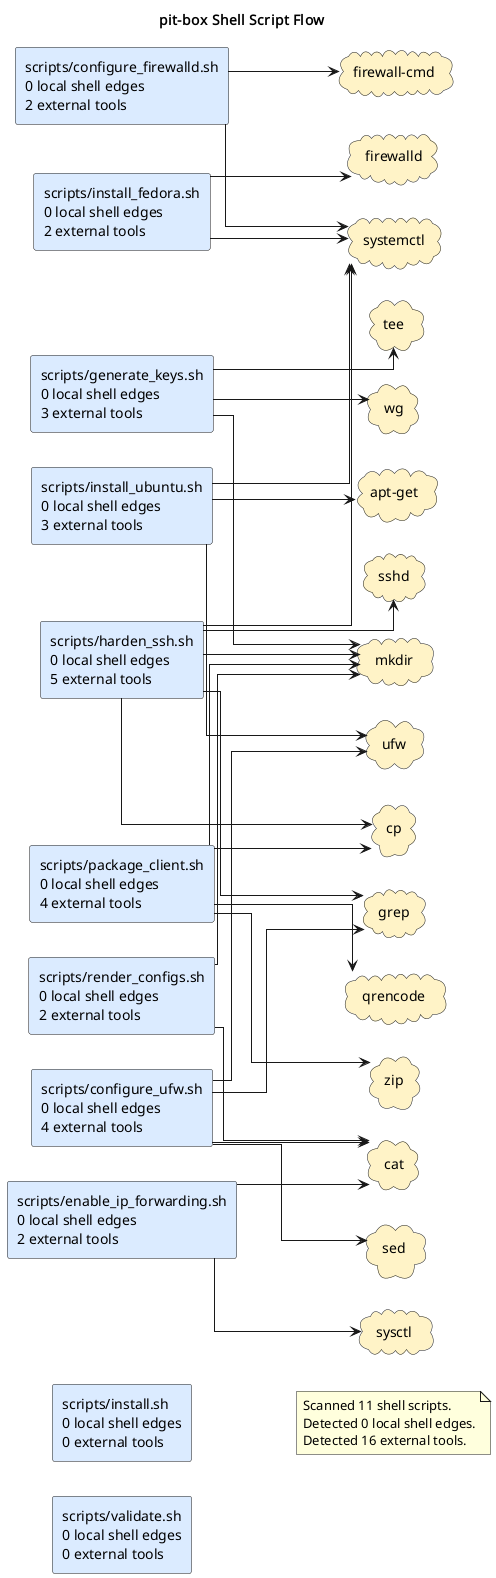
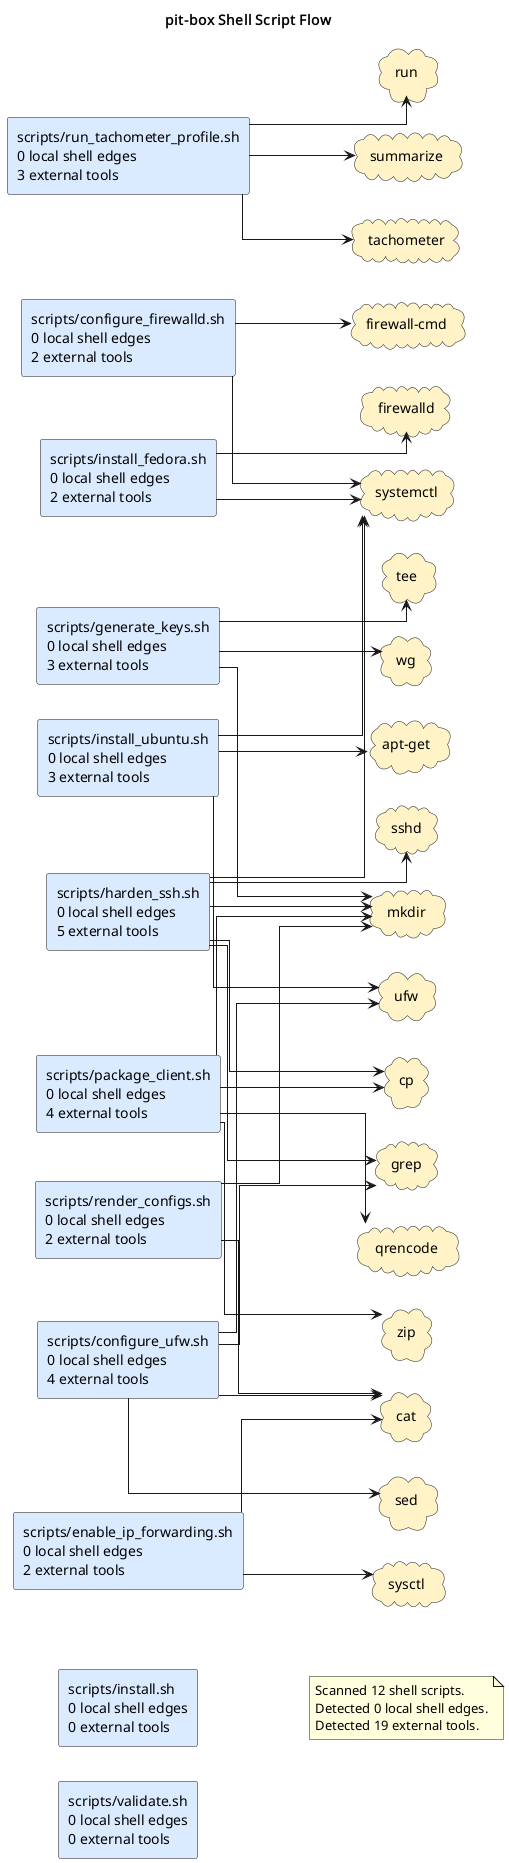
docs: refresh diagrams, fill REFS-PUBLIC, add webterm toolbar troubleshooting

diff --git a/docs/troubleshooting.md b/docs/troubleshooting.md
@@ -44,3 +44,11 @@ Check:
 2. endpoint hostname and port are correct
 3. the `AllowedIPs` line matches the desired routing mode
 4. line endings were not mangled during transfer
+
+## Web terminal loads but helper keys are missing
+
+Check:
+
+1. `systemctl cat ttyd` includes `--index /etc/pit-box/webterm/index.html`
+2. rerun `sudo ./scripts/rebuild_webservices.sh ttyd` to regenerate the helper-toolbar page
+3. hard-refresh the browser after the ttyd restart so the old page is not cached